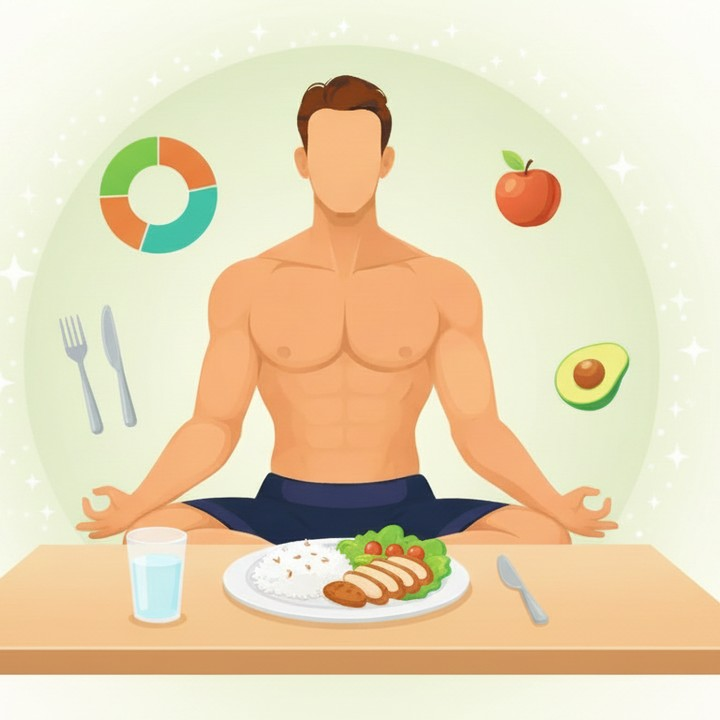
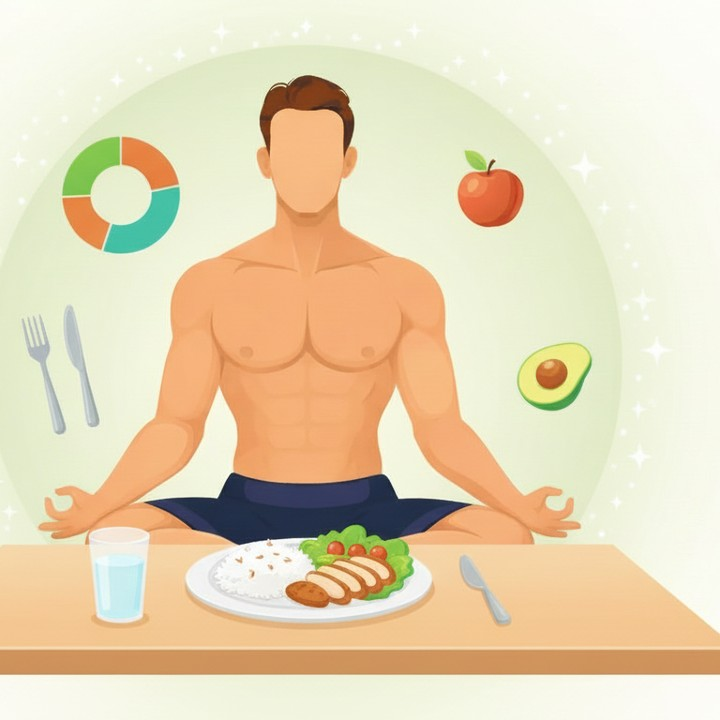
fix(tour): re-crop tour-4 com offset +40px pra melhor centralização (v2.1.93)
A imagem original (1344x768) tinha composição ligeiramente assimétrica
entre os ícones ao redor do personagem (pie+fork/knife à esquerda,
apple+avocado à direita). Crop centro-fixo deixava o avocado próximo
demais da borda direita e desbalanceava a simetria visual.

Fix: crop de (288, 0, 1056, 768) → (328, 0, 1096, 768). Shift de +40px
à direita dá mais respiro ao avocado e centraliza visualmente o
personagem no frame quadrado. Outras imagens mantidas com center crop
padrão (já estavam balanceadas).

SW v2.1.92 → v2.1.93, cache busters → 2193

diff --git a/index.html b/index.html
@@ -17,7 +17,7 @@
 <script src="https://www.gstatic.com/firebasejs/10.12.0/firebase-auth-compat.js"></script>
 <script src="https://www.gstatic.com/firebasejs/10.12.0/firebase-firestore-compat.js"></script>
 <script src="https://cdnjs.cloudflare.com/ajax/libs/jspdf/2.5.1/jspdf.umd.min.js"></script>
-<link rel="stylesheet" href="styles.css?v=2192">
+<link rel="stylesheet" href="styles.css?v=2193">
 <script>
   // v2.1.37: aplica o tema (data-theme) ANTES do CSS pintar pra evitar flash.
   // v2.1.51: default é 'light'. Usuário pode mudar pra 'dark' ou 'auto' no
@@ -635,8 +635,8 @@
 </div><!-- /app-container -->
 
 <script src="glyphs.js?v=2114"></script>
-<script src="data.js?v=2192"></script>
-<script src="legal-docs.js?v=2192"></script>
-<script src="app.js?v=2192"></script>
+<script src="data.js?v=2193"></script>
+<script src="legal-docs.js?v=2193"></script>
+<script src="app.js?v=2193"></script>
 </body>
 </html>

diff --git a/app.js b/app.js
@@ -4884,7 +4884,7 @@ function _renderTourStep() {
 
   card.className = 'tour-card' + (isCentered ? ' centered' : '');
   const imgHtml = step.image
-    ? '<img class="tour-card-img" src="' + step.image + '?v=2192" alt="">'
+    ? '<img class="tour-card-img" src="' + step.image + '?v=2193" alt="">'
     : '';
   card.innerHTML =
     imgHtml +

diff --git a/sw.js b/sw.js
@@ -1,4 +1,4 @@
-const CACHE_NAME = 'dieta-v2.1.92';
+const CACHE_NAME = 'dieta-v2.1.93';
 
 self.addEventListener('install', e => {
   self.skipWaiting();
